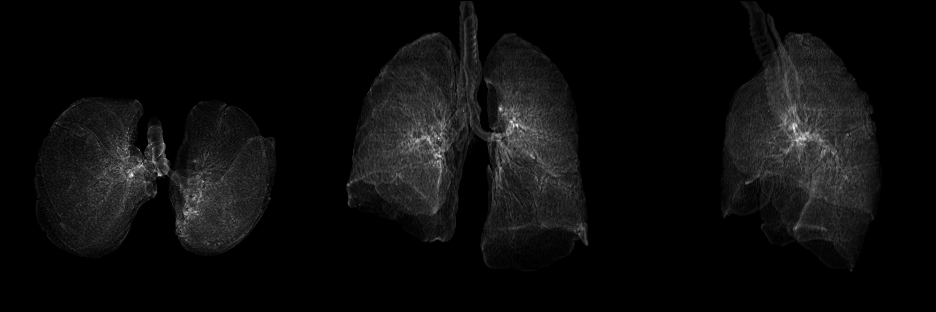
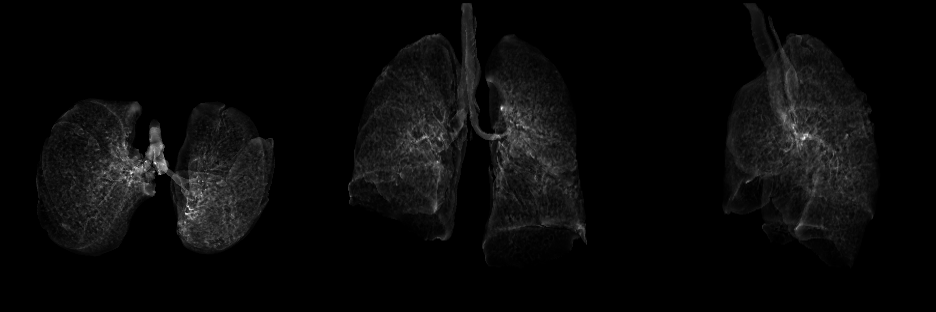
archived region_grow

diff --git a/oldschool.py b/oldschool.py
@@ -170,45 +170,6 @@ def fissure_seg_v2(img_obj):
     # https://github.com/pangyuteng/Lung-Lobes-Segmentation-in-CT-Scans/blob/docker/vector_region_growing.cxx
     raise NotImplementedError()
 
-#           trachea     lung
-# img:      dark    to  bright
-# lung:     1       to  1
-# tubeness: high    to  high
-#
-def is_airway(ind,prior_ind,img,lung,tube):
-
-    try:        
-
-        if np.take(lung,ind,mode='raise') == 0:
-            return False
-
-        # prior intensity not too far from current
-        intensity = np.take(img,ind,mode='raise')
-        pintensity = np.take(img,prior_ind,mode='raise')
-
-        tubeness = np.take(tube,ind,mode='raise')
-        ptubeness = np.take(tube,prior_ind,mode='raise')
-        print(f'tubeness {ptubeness:4.2f}\t{tubeness:4.2f}\t intensity \t{pintensity:4d}\t{intensity:4d}\t')
-        
-        if intensity > -700:
-            return False
-            
-        # if it is more or less air
-        if np.abs(intensity-pintensity) < 5:
-            return True
-        
-        # if it is more or less tube-like
-        if np.abs(tubeness-ptubeness) < 5:
-            return True
-
-    except IndexError:
-        return False
-
-    except:
-        traceback.print_exc()
-
-    return False
-
 def airway_seg(img_obj):
     
     img = sitk.GetArrayFromImage(img_obj)
@@ -229,6 +190,7 @@ def airway_seg(img_obj):
     # assume < -300 HU are voxels within lung
     procarr = (img < -300).astype(np.int)
     procarr = ndimage.morphology.binary_closing(procarr,iterations=1)
+    procarr = ndimage.morphology.binary_erosion(procarr,iterations=2)
 
     label_image, num = ndimage.label(procarr)
     region = measure.regionprops(label_image)
@@ -246,15 +208,15 @@ def airway_seg(img_obj):
     
     # enhance tube like structure
     arr_list = []
-    for x in np.arange(0.5,2.5,0.5):
+    for x in np.arange(1,8,1):
         gaussian = sitk.SmoothingRecursiveGaussianImageFilter()
         gaussian.SetSigma(float(x))
         smoothed = gaussian.Execute(img_obj)
         myfilter = sitk.ObjectnessMeasureImageFilter()
         myfilter.SetBrightObject(False)
         myfilter.SetObjectDimension(1)
-        myfilter.SetAlpha(0.5) 
-        myfilter.SetBeta(0.5)
+        myfilter.SetAlpha(1.0) 
+        myfilter.SetBeta(1.0)
         myfilter.SetGamma(5.0)
         tmp_obj = myfilter.Execute(smoothed)
         arr_list.append(sitk.GetArrayFromImage(tmp_obj))

diff --git a/region_grow.py b/region_grow.py
@@ -5,7 +5,46 @@ from scipy import ndimage
 from skimage import measure
 import SimpleITK as sitk
 
+#           trachea     lung
+# img:      dark    to  bright
+# lung:     1       to  1
+# tubeness: high    to  high
+#
+def is_airway(ind,prior_ind,img,lung,tube):
 
+    try:        
+
+        if np.take(lung,ind,mode='raise') == 0:
+            return False
+
+        # prior intensity not too far from current
+        intensity = np.take(img,ind,mode='raise')
+        pintensity = np.take(img,prior_ind,mode='raise')
+
+        tubeness = np.take(tube,ind,mode='raise')
+        ptubeness = np.take(tube,prior_ind,mode='raise')
+        print(f'tubeness {ptubeness:4.2f}\t{tubeness:4.2f}\t intensity \t{pintensity:4d}\t{intensity:4d}\t')
+        
+        if intensity > -700:
+            return False
+            
+        # if it is more or less air
+        if np.abs(intensity-pintensity) < 5:
+            return True
+        
+        # if it is more or less tube-like
+        if np.abs(tubeness-ptubeness) < 5:
+            return True
+
+    except IndexError:
+        return False
+
+    except:
+        traceback.print_exc()
+
+    return False
+
+    
 # TODO: needs to be in c++
 def get_connected(ind,shape,search_radius=(1,1,1)):
     coord = np.unravel_index(ind,shape)

diff --git a/demo.py b/demo.py
@@ -40,10 +40,10 @@ if __name__ == "__main__":
 
     # process...
     for name,method,args in [
-        ('lung',lung_seg,(img_obj,)),
+        #('lung',lung_seg,(img_obj,)),
         ('airway',airway_seg,(img_obj,)),
-        ('vessel',vessel_seg,(img_obj,)),
-        ('fissure',fissure_seg,(img_obj,)),
+        #('vessel',vessel_seg,(img_obj,)),
+        #('fissure',fissure_seg,(img_obj,)),
         ]:
         print(f'generating {name}...')
         tmp_obj = method(*args)
